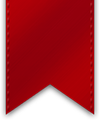
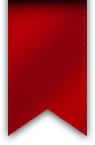
New chatbubble carat and ribbon images for iPad; slightly tweaked padding for iPad schedule detail view

Changed region(s): [[0.0421, 0.0, 0.9684, 0.975], [0.3158, 0.15, 0.5053, 0.25]]

diff --git a/Projects/Reunions/Modules/Schedule/ScheduleTabletTableViewCell.m b/Projects/Reunions/Modules/Schedule/ScheduleTabletTableViewCell.m
@@ -83,10 +83,10 @@
     // i have not figured out why the table view cells
     // end up being so much narrower than their frame
     CGRect textLabelFrame = self.textLabel.frame;
-    textLabelFrame.origin.x = -10;
+    textLabelFrame.origin.x = -11;
     
     CGRect detailLabelFrame = self.detailTextLabel.frame;
-    detailLabelFrame.origin.x = -10;
+    detailLabelFrame.origin.x = -11;
 
     [_bookmarkView removeTarget:NULL action:NULL forControlEvents:UIControlEventTouchUpInside];
     
